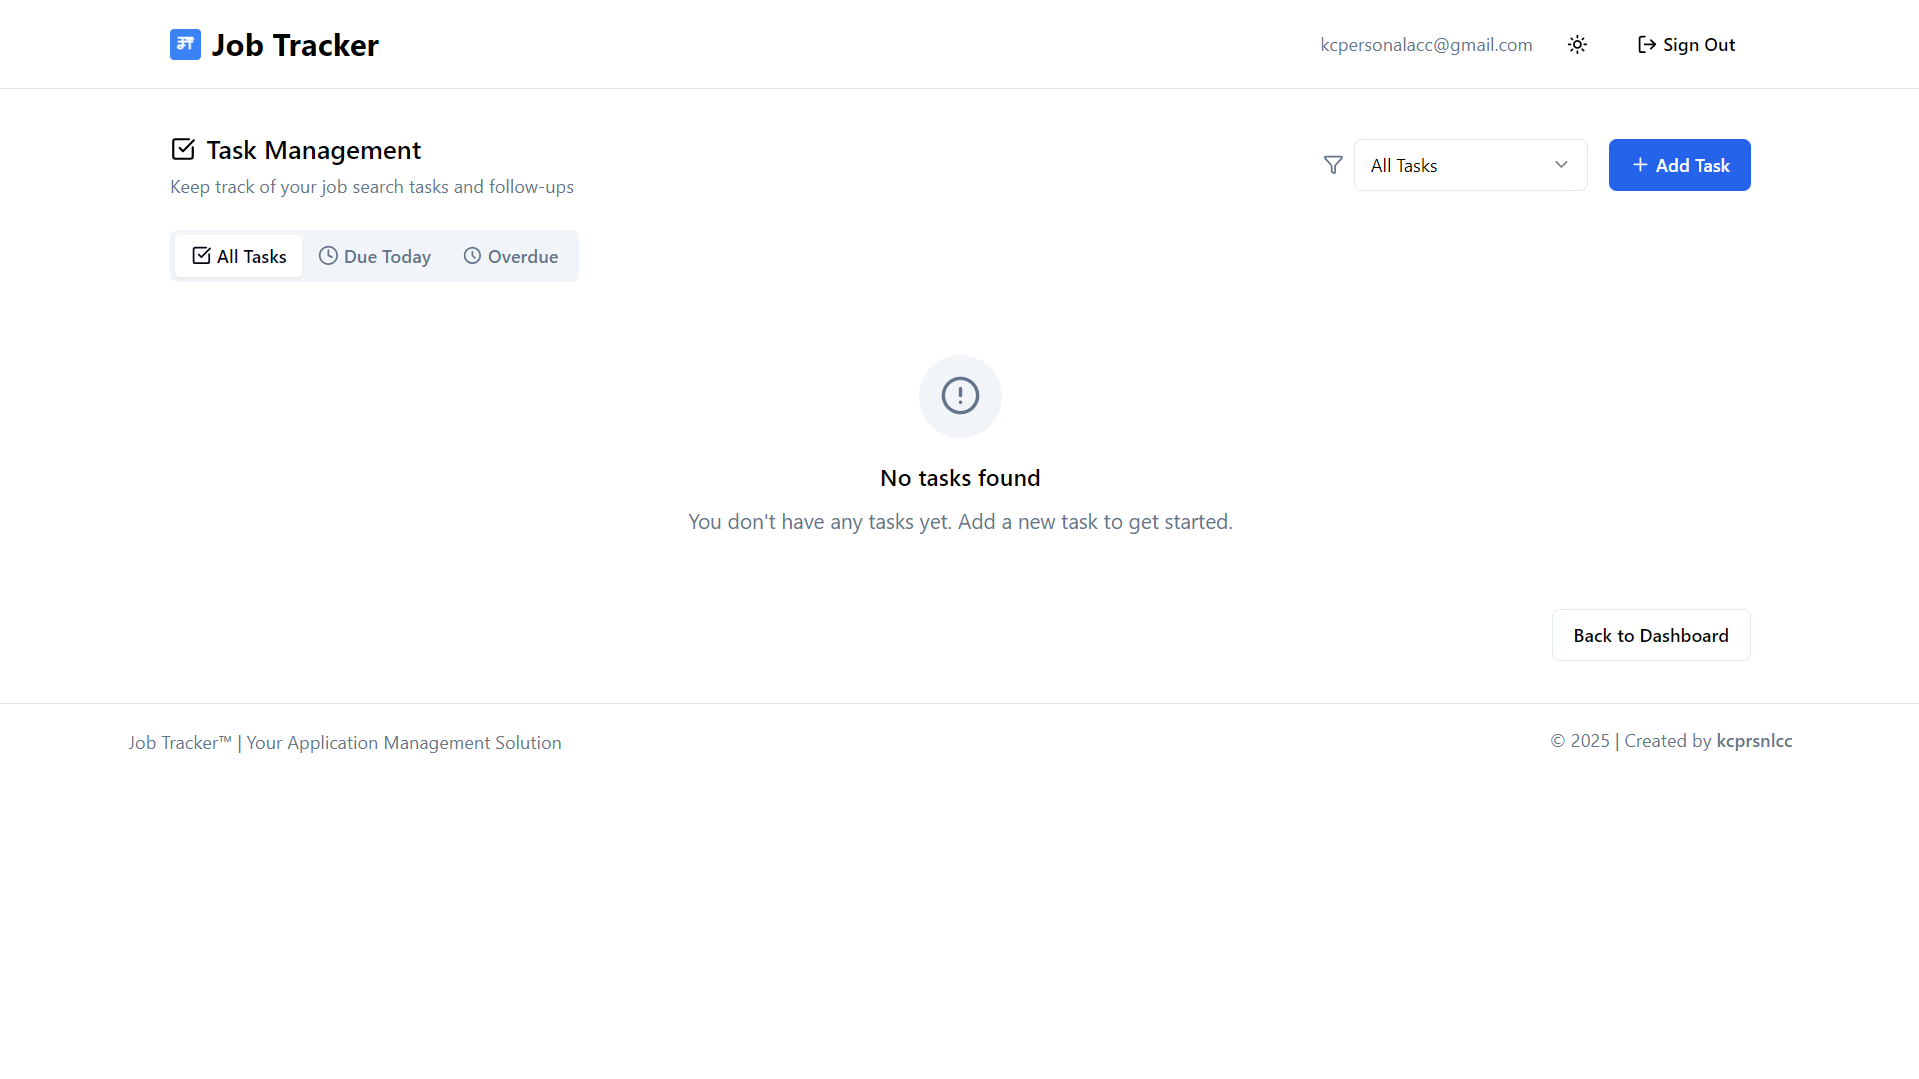
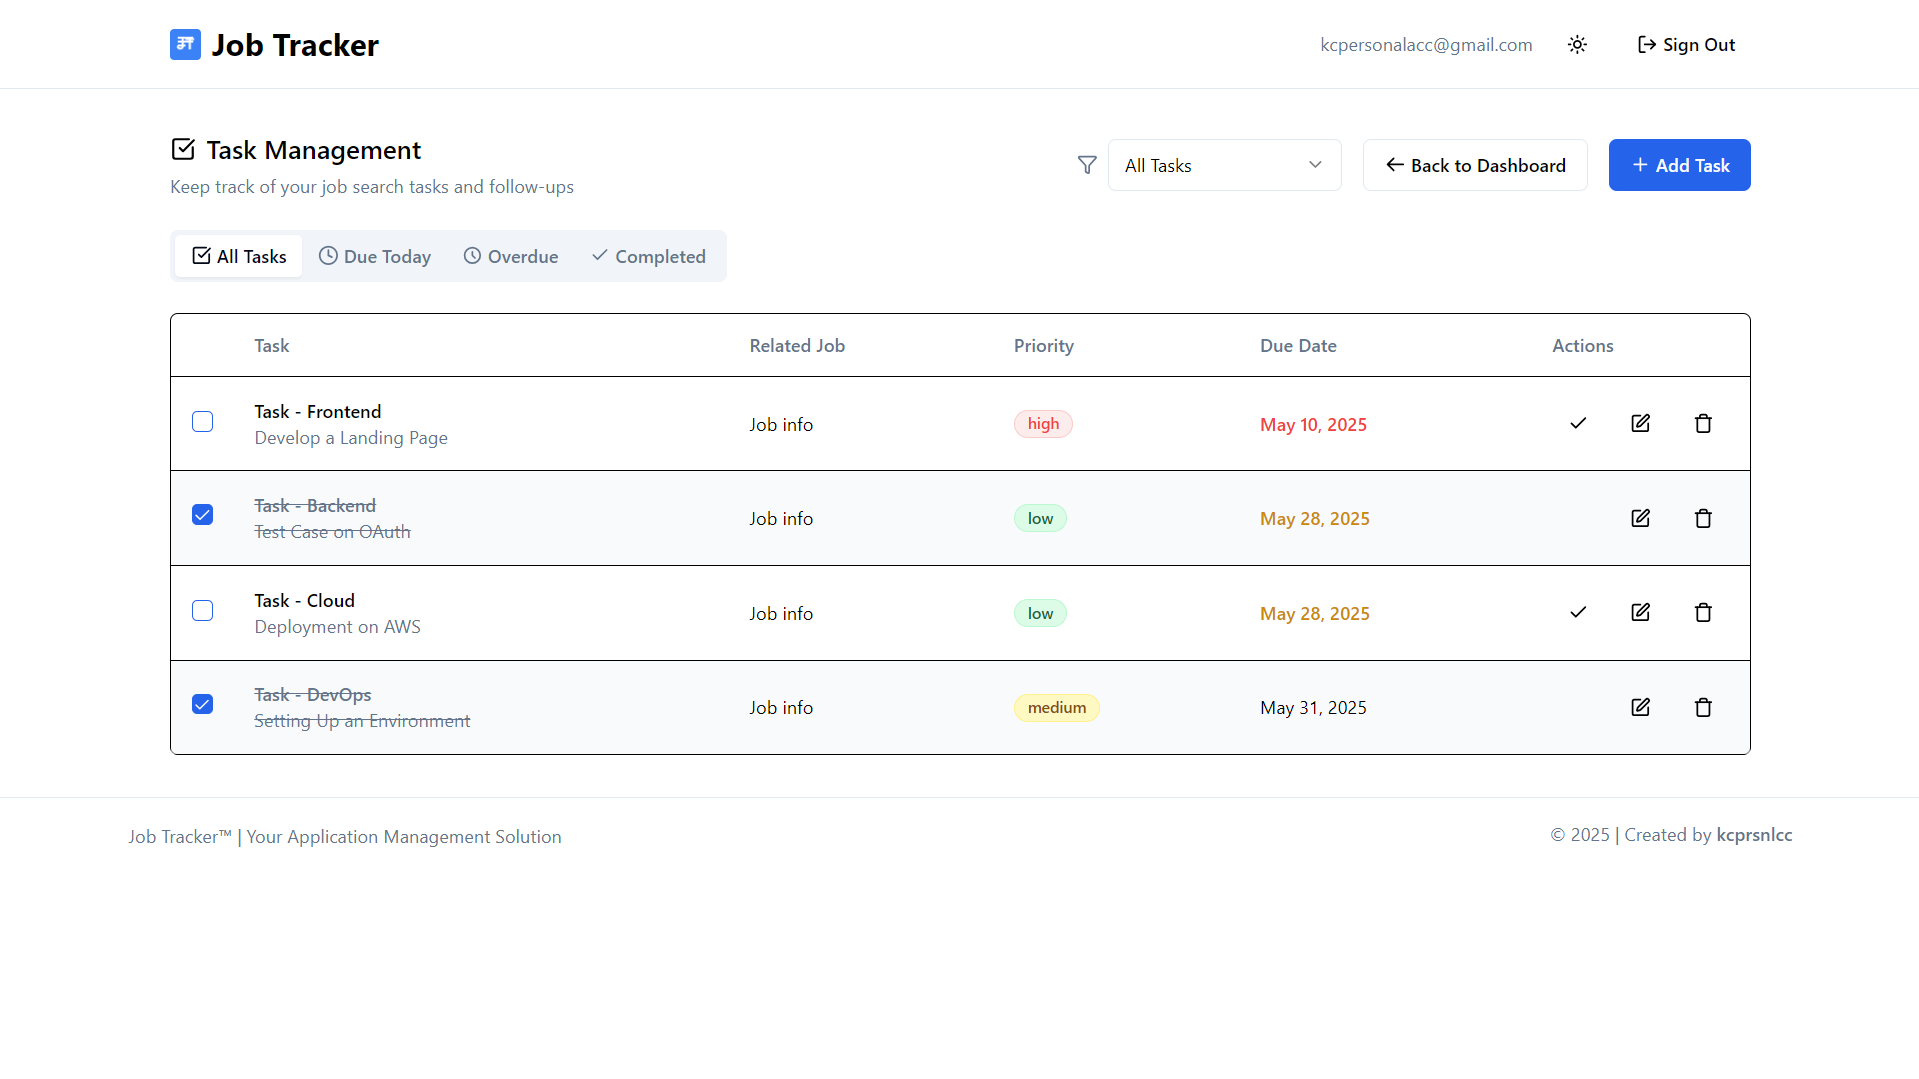
Add complete feature in task management

diff --git a/src/pages/TaskManager.tsx b/src/pages/TaskManager.tsx
@@ -1,12 +1,12 @@
 import React, { useState, useEffect } from 'react';
 import { useAuth } from '../context/AuthContext';
-import { getTasks, getDueTasks } from '../services/taskService';
+import { getTasks, getDueTasks, completeTask, deleteTask } from '../services/taskService';
 import { Task } from '../types';
 import TaskList from '../components/TaskList';
 import TaskForm from '../components/TaskForm';
 import Footer from '../components/Footer';
 import { ThemeToggle } from '../components/theme-toggle';
-import { LogOut, CheckSquare, Plus, Clock, Filter } from 'lucide-react';
+import { LogOut, CheckSquare, Plus, Clock, Filter, Check, Trash } from 'lucide-react';
 import { Button } from '../components/ui/button';
 import { Card } from '../components/ui/card';
 import { useToast } from '../hooks/use-toast';
@@ -167,6 +167,15 @@ const TaskManager: React.FC = () => {
                 </SelectContent>
               </Select>
             </div>
+            
+            <Button variant="outline" asChild>
+              <Link to="/dashboard" className="flex items-center gap-1">
+                <svg className="h-4 w-4" fill="none" viewBox="0 0 24 24" stroke="currentColor">
+                  <path strokeLinecap="round" strokeLinejoin="round" strokeWidth={2} d="M10 19l-7-7m0 0l7-7m-7 7h18" />
+                </svg>
+                Back to Dashboard
+              </Link>
+            </Button>
 
             <Button
               onClick={handleAddTask}
@@ -210,8 +219,14 @@ const TaskManager: React.FC = () => {
               </svg>
               Overdue
             </TabsTrigger>
+            <TabsTrigger value="completed" className="flex items-center gap-1" onClick={() => setFilterType('completed')}>
+              <Check className="h-4 w-4" />
+              Completed
+            </TabsTrigger>
           </TabsList>
         </Tabs>
+        
+
 
         <TaskList
           tasks={filteredTasks}
@@ -221,11 +236,7 @@ const TaskManager: React.FC = () => {
           loading={loading}
         />
 
-        <div className="mt-6 flex justify-end">
-          <Button variant="outline" asChild>
-            <Link to="/dashboard">Back to Dashboard</Link>
-          </Button>
-        </div>
+
       </main>
 
       <TaskForm

diff --git a/src/components/TaskList.tsx b/src/components/TaskList.tsx
@@ -200,16 +200,23 @@ const TaskList: React.FC<TaskListProps> = ({
                 <TableCell className={getDueDateColor(task.due_date)}>
                   {format(new Date(task.due_date), 'MMM d, yyyy')}
                 </TableCell>
-                <TableCell>
-                  <div className="flex space-x-2">
+                <TableCell className="text-right">
+                  <div className="flex justify-end space-x-2">
+                    {!task.completed && (
+                      <Button
+                        variant="ghost"
+                        size="icon"
+                        onClick={() => handleComplete(task)}
+                      >
+                        <Check className="h-4 w-4" />
+                      </Button>
+                    )}
                     <Button
                       variant="ghost"
                       size="icon"
                       onClick={() => onEdit(task)}
-                      disabled={task.completed}
                     >
                       <Edit className="h-4 w-4" />
-                      <span className="sr-only">Edit</span>
                     </Button>
                     <Button
                       variant="ghost"
@@ -217,7 +224,6 @@ const TaskList: React.FC<TaskListProps> = ({
                       onClick={() => openDeleteDialog(task.id!)}
                     >
                       <Trash className="h-4 w-4" />
-                      <span className="sr-only">Delete</span>
                     </Button>
                   </div>
                 </TableCell>
